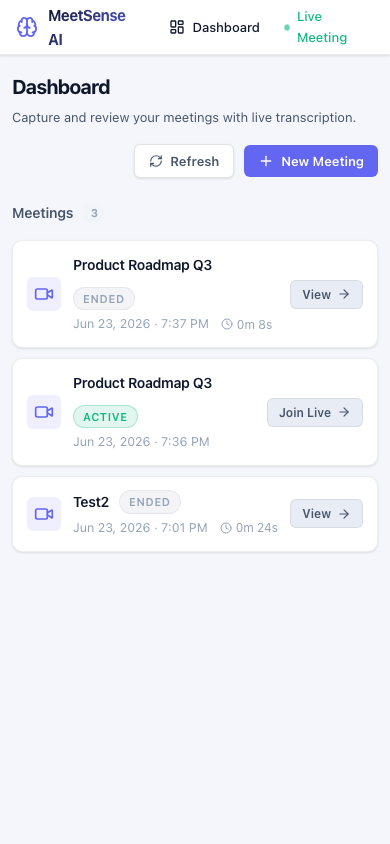
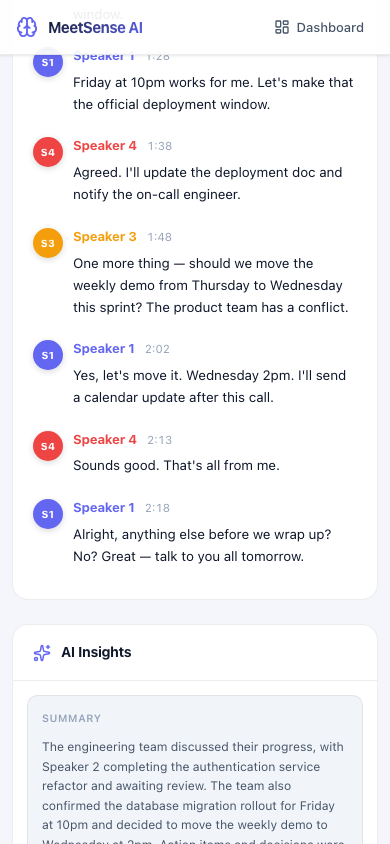
docs: update README screenshots with real transcript and AI insights data

diff --git a/backend/app/api/meetings.py b/backend/app/api/meetings.py
@@ -17,64 +17,6 @@ limiter = Limiter(key_func=get_remote_address)
 
 
 # ---------------------------------------------------------------------------
-# POST /api/demo — seed a realistic meeting for screenshots (temporary)
-# ---------------------------------------------------------------------------
-
[email redacted]("/demo", response_model=Meeting, status_code=status.HTTP_201_CREATED)
-async def create_demo_meeting() -> Meeting:
-    import uuid
-    from datetime import datetime, timezone, timedelta
-
-    meeting = await meeting_store.create_meeting(title="Engineering Standup — Sprint 24")
-
-    base = datetime.now(timezone.utc)
-    segments_data = [
-        ("Speaker 1", "Good morning everyone, let's get started with the standup.", 2.1, 0.98),
-        ("Speaker 2", "Sure. Yesterday I finished the authentication service refactor and pushed it to the staging branch.", 8.4, 0.97),
-        ("Speaker 1", "Great. Any blockers on that?", 22.1, 0.99),
-        ("Speaker 2", "One thing — the token refresh logic needs a review from the backend team before we can merge.", 26.8, 0.96),
-        ("Speaker 3", "I can take a look this afternoon. I should have the API rate limiting done by noon so I'll have time.", 38.2, 0.95),
-        ("Speaker 1", "Perfect. Can you put a PR review request on Slack so it doesn't get lost?", 51.5, 0.98),
-        ("Speaker 2", "Will do.", 61.0, 0.99),
-        ("Speaker 3", "Also, I wanted to bring up the database migration for the new reporting schema. We agreed to run it Friday night but I want to confirm everyone's available for the rollout window.", 64.7, 0.94),
-        ("Speaker 1", "Friday at 10pm works for me. Let's make that the official deployment window.", 88.3, 0.97),
-        ("Speaker 4", "Agreed. I'll update the deployment doc and notify the on-call engineer.", 98.6, 0.96),
-        ("Speaker 3", "One more thing — should we move the weekly demo from Thursday to Wednesday this sprint? The product team has a conflict.", 108.0, 0.95),
-        ("Speaker 1", "Yes, let's move it. Wednesday 2pm. I'll send a calendar update after this call.", 122.5, 0.98),
-        ("Speaker 4", "Sounds good. That's all from me.", 133.0, 0.99),
-        ("Speaker 1", "Alright, anything else before we wrap up? No? Great — talk to you all tomorrow.", 138.2, 0.97),
-    ]
-
-    for speaker, text, ts, conf in segments_data:
-        seg = TranscriptSegment(
-            id=str(uuid.uuid4()),
-            meeting_id=meeting.id,
-            speaker=speaker,
-            text=text,
-            timestamp=ts,
-            confidence=conf,
-            is_final=True,
-        )
-        await meeting_store.add_segment(seg)
-
-    await meeting_store.end_meeting(meeting.id)
-
-    final_segments = [
-        TranscriptSegment(id=str(uuid.uuid4()), meeting_id=meeting.id,
-                          speaker=s, text=t, timestamp=ts, confidence=c, is_final=True)
-        for s, t, ts, c in segments_data
-    ]
-    insights = await generate_insights(
-        meeting_id=meeting.id,
-        meeting_title="Engineering Standup — Sprint 24",
-        segments=final_segments,
-    )
-    await meeting_store.save_insights(insights)
-
-    return await meeting_store.get_meeting(meeting.id)
-
-
-# ---------------------------------------------------------------------------
 # POST /api/meetings — create a new meeting
 # ---------------------------------------------------------------------------
 

diff --git a/README.md b/README.md
@@ -246,11 +246,11 @@ docker compose down
 ### Dashboard
 ![Dashboard](docs/screenshots/dashboard.png)
 
-### Meeting Room (Active)
-![Meeting Room](docs/screenshots/meeting-room.png)
-
-### Meeting Detail with AI Insights Panel
+### Live Transcript with AI Insights Panel
 ![Meeting Detail](docs/screenshots/meeting-detail.png)
+
+### AI Insights — Summary, Action Items, Decisions
+![AI Insights](docs/screenshots/ai-insights.png)
 
 ### Mobile View
 ![Mobile](docs/screenshots/mobile.png)